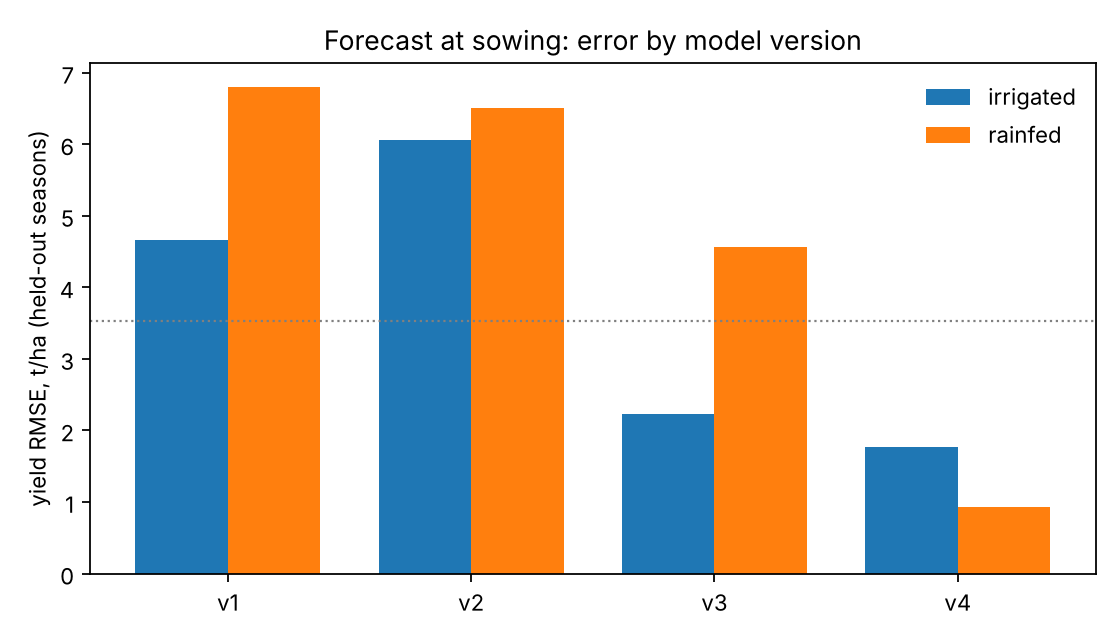
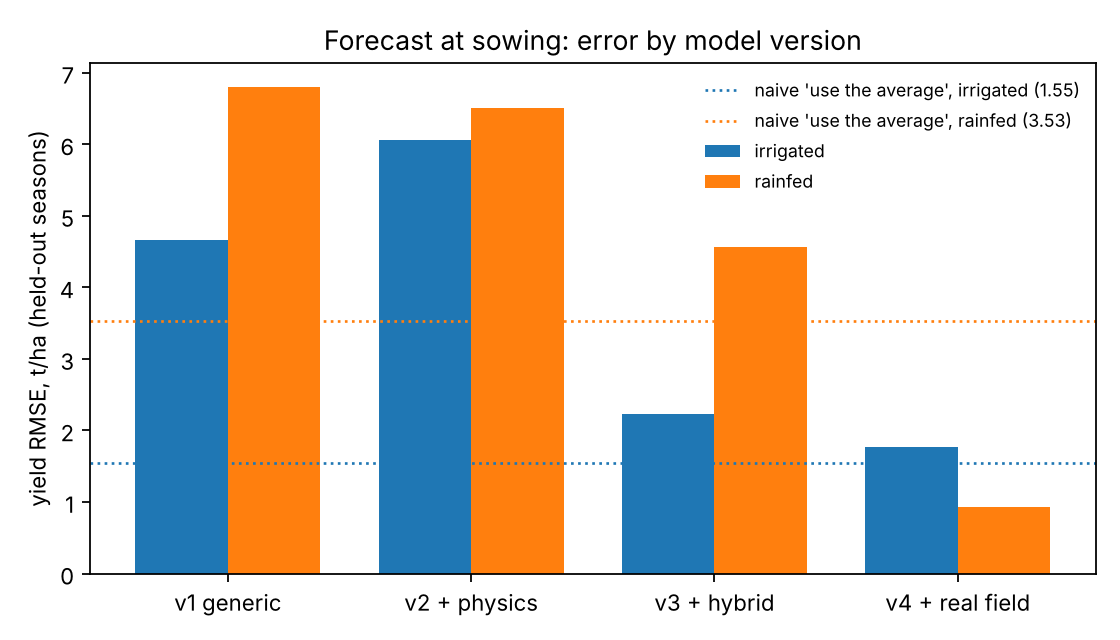
Weather check accepts real cold climates; decisions use each season's management
validate_records rejected TMIN below -10 C, so a real Nebraska February day from
the MEAD 6 S gauge (-12.2 C) stopped the twin. The check exists to catch Kelvin,
Fahrenheit and swapped columns: bounds are now the physical range (-70..60 C).

Mead decision study runs 2017-2023 on Ne3 with the BADM seeding rate, sowing
date and combine yield of each season. Report figures relabelled.

Claude-Session: https://claude.ai/code/session_01Kn9iNbr1yjhNUnFd6owMBn

diff --git a/ml/mead/decisions.py b/ml/mead/decisions.py
@@ -10,7 +10,7 @@ decision value; it is not validated against the field. Policies (fa_runner):
   twin      the software: survey scan, twin-planned herbicide (spot / blanket / none), the
             twin's weekly fungicide decision
 
-    python ml/mead/decisions.py --years 2019-2023 --seeds 2
+    python ml/mead/decisions.py --years 2017-2023 --seeds 2
 """
 from __future__ import annotations
 
@@ -30,10 +30,22 @@ warnings.filterwarnings("ignore")
 
 import study as S  # noqa: E402
 
-# The rainfed pivot as it is farmed: no-till maize after soybean, ~55 000 plants/ha, ~113 CRM hybrid
-# sown in mid-May (UNL CSP site records 2001-2003; AmeriFlux BADM), the hybrid calibrated in study.py.
-NE3_MANAGEMENT = {"population": 55500, "tillage": "no-till", "previous_crop": "soybean", "gdu_black_layer": 2750}
-NE3_FIELD = {"variety": "US_CornBelt_2750GDU", "sowing": "05-13", "harvest": "10-15"}
+# The rainfed pivot as it was farmed each season (AmeriFlux BADM US-Ne3 planting and harvest records):
+# no-till maize after soybean, ~113 CRM hybrids, seeding rate in seeds/acre -> seeds/ha, combine yield
+# in bu/acre at 15.5 % -> t/ha (x 0.06277). 2023 is not in the records: the 2017-2021 mean is used.
+NE3_SEASONS = {
+    2017: {"sowing": "05-08", "seeds_ha": 28500 / 0.404686, "hybrid": "Pioneer P1498AM", "measured_t_ha": 192 * 0.06277},
+    2019: {"sowing": "04-24", "seeds_ha": 27736 / 0.404686, "hybrid": "Pioneer P1366AM", "measured_t_ha": None},
+    2021: {"sowing": "04-29", "seeds_ha": 28000 / 0.404686, "hybrid": "Dekalb DK63-57", "measured_t_ha": 189.5 * 0.06277},
+    2023: {"sowing": "05-01", "seeds_ha": 28079 / 0.404686, "hybrid": "assumed", "measured_t_ha": None},
+}
+
+
+def ne3_management(y: int) -> tuple[dict, dict]:
+    s = NE3_SEASONS[y]
+    return ({"population": round(s["seeds_ha"]), "tillage": "no-till", "previous_crop": "soybean",
+             "gdu_black_layer": 2750},
+            {"variety": "US_CornBelt_2750GDU", "sowing": s["sowing"], "harvest": "10-15"})
 
 FIELDS = ("yield_dry_kg_ha", "net_ha", "fungicide_sprays", "herbicide", "herbicide_treated_frac", "missions",
           "litres", "drone_time_min", "weed_loss_pct", "scans")
@@ -44,12 +56,12 @@ def main(argv=None) -> int:
     from fa_farm.sources.base import Cache
     from fa_runner.season import run_season
     ap = argparse.ArgumentParser()
-    ap.add_argument("--years", default="2019-2023")
+    ap.add_argument("--years", default="2017-2023")
     ap.add_argument("--seeds", type=int, default=2)
     ap.add_argument("--policies", default="none,calendar,twin")
     a = ap.parse_args(argv)
     lo, _, hi = a.years.partition("-")
-    years = [y for y in range(int(lo), int(hi or lo) + 1) if y % 2 == 1]   # Ne3 grows maize in odd years
+    years = [y for y in range(int(lo), int(hi or lo) + 1) if y in NE3_SEASONS]   # Ne3: maize in odd years
     lat, lon, _ = S.SITES["Ne3"]
     poly = S.pivot_polygon(lat, lon)
     cache = Cache(S.DATA / "cache")
@@ -58,11 +70,14 @@ def main(argv=None) -> int:
     for y in years:
         for seed in range(a.seeds):
             t0 = time.time()
+            mg, fld = ne3_management(y)
             vf = build_virtual_farm("A4", y, cache=cache, polygon_wgs84=poly, cell_m=10.0, seed=seed,
-                                    management=NE3_MANAGEMENT, archetype_overrides=NE3_FIELD)
+                                    management=mg, archetype_overrides=fld)
             for pol in a.policies.split(","):
                 r = run_season(vf, pol, seed=seed)
                 row = {"year": y, "seed": seed, "policy": pol, "currency": r.currency,
+                       "measured_combine_t_ha": NE3_SEASONS[y]["measured_t_ha"], "management": mg,
+                       "science_notes": vf.spec.science_notes, "warnings": vf.warnings,
                        **{k: getattr(r, k) for k in FIELDS}, "costs": r.costs_ha}
                 rows.append(row)
                 print(y, seed, pol, f"yield {r.yield_dry_kg_ha / 1000 / 0.845:.2f} t/ha net {r.net_ha:.0f} "

diff --git a/ml/mead/report.py b/ml/mead/report.py
@@ -100,11 +100,13 @@ def figures(m: dict) -> list[Path]:
     for i, g in enumerate(("irrigated", "rainfed")):
         vals = [m["versions"][v]["forward"][g]["yield"]["rmse"] for v in vs]
         ax.bar([k + (i - 0.5) * w for k in range(len(vs))], vals, w, label=g)
-    ax.axhline(m["baseline"]["rainfed"]["rmse"], ls=":", c="grey", lw=1)
-    ax.set_xticks(range(len(vs)), vs)
+    for i, (g, c) in enumerate((("irrigated", "tab:blue"), ("rainfed", "tab:orange"))):
+        ax.axhline(m["baseline"][g]["rmse"], ls=":", c=c, lw=1.2,
+                   label=f"naive 'use the average', {g} ({m['baseline'][g]['rmse']:.2f})")
+    ax.set_xticks(range(len(vs)), ["v1 generic", "v2 + physics", "v3 + hybrid", "v4 + real field"][:len(vs)])
     ax.set_ylabel("yield RMSE, t/ha (held-out seasons)")
     ax.set_title("Forecast at sowing: error by model version")
-    ax.legend(frameon=False)
+    ax.legend(frameon=False, fontsize=8)
     fig.tight_layout()
     paths.append(fig_dir / "rmse_by_version.png")
     fig.savefig(paths[-1], dpi=160)
@@ -121,7 +123,9 @@ def figures(m: dict) -> list[Path]:
             xs.append(meas)
             ys.append(yl["forward"])
             cs.append("tab:blue" if S.SITES[k.split("_")[0]][2] else "tab:orange")
-        ax.scatter(xs, ys, marker=mk, c=cs, alpha=0.85 if v != "v1" else 0.35, label=v)
+        ax.scatter(xs, ys, marker=mk, c=cs, alpha=0.85 if v != "v1" else 0.35)
+        ax.scatter([], [], marker=mk, c="grey", alpha=0.85 if v != "v1" else 0.35,
+                   label="v1 generic crop model" if v == "v1" else f"{v} the updated twin")
     ax.plot([0, 16], [0, 16], c="grey", lw=0.8)
     ax.set_xlim(0, 16)
     ax.set_ylim(0, 16)

diff --git a/tests/test_field_science.py b/tests/test_field_science.py
@@ -224,3 +224,19 @@ def test_stand_overrides_pass_pcse_partitioning_check(pop):
     zt = ZoneTwin(cfg, records_provider(recs, 41.0, -96.5), engine="Wofost72_PP")
     zt.run_till(dt.date(2004, 7, 1))
     assert (zt.model.get_variable("TAGP") or 0) > 0
+
+
+def test_observed_weather_accepts_real_continental_winters_but_not_wrong_units():
+    """A Nebraska February day from the MEAD 6 S gauge (TMIN -12.2, TMAX -0.6) is real weather; the
+    check exists to catch Kelvin or Fahrenheit, not cold places (records: -89.2 C to 56.7 C)."""
+    from fa_twin.weather import validate_records
+    recs = _records(days=5)
+    cold = [dict(r) for r in recs]
+    cold[2].update(TMIN=-12.2, TMAX=-0.6)
+    cold[3].update(TMIN=-38.0, TMAX=-25.0)                      # a prairie cold snap
+    assert validate_records(cold) == []
+    kelvin = [dict(r, TMIN=r["TMIN"] + 273.15, TMAX=r["TMAX"] + 273.15) for r in recs]
+    assert any("temperatures out of range" in p for p in validate_records(kelvin))
+    swapped = [dict(r) for r in recs]
+    swapped[1].update(TMIN=20.0, TMAX=10.0)
+    assert any("temperatures out of range" in p for p in validate_records(swapped))

diff --git a/services/twin/fa_twin/weather.py b/services/twin/fa_twin/weather.py
@@ -362,7 +362,9 @@ def validate_records(records: list[dict]) -> list[str]:
             probs.append(f"gap or disorder between {a} and {b}")
             break
     for r in records:
-        if not (-10 <= r["TMIN"] <= r["TMAX"] <= 55):
+        # Physical range (world records -89.2 C .. 56.7 C) -- this catches Kelvin / Fahrenheit and
+        # swapped columns, not cold climates: a Nebraska gauge reads -12 C in February.
+        if not (-70 <= r["TMIN"] <= r["TMAX"] <= 60):
             probs.append(f"{r['DAY']}: temperatures out of range (TMIN {r['TMIN']}, TMAX {r['TMAX']})")
             break
         if not (0 <= r["RAIN"] <= 600):
